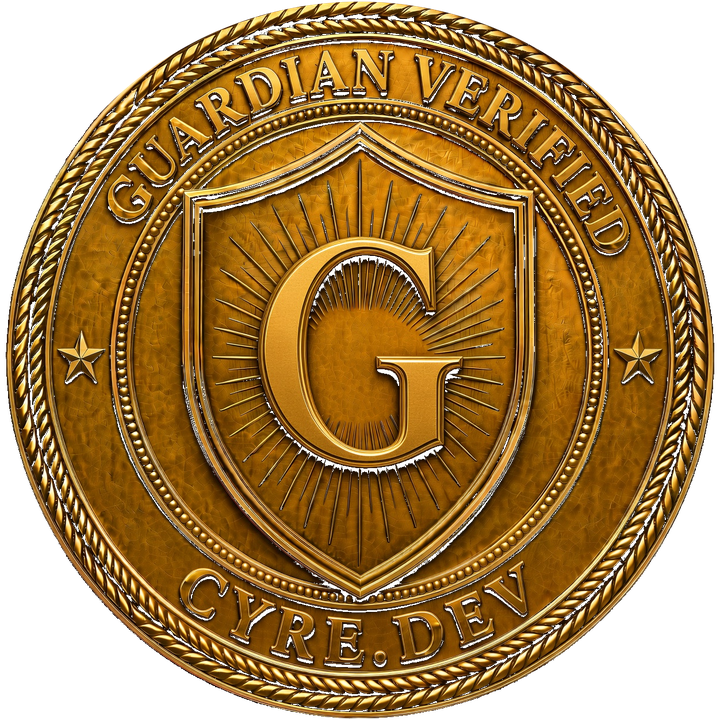
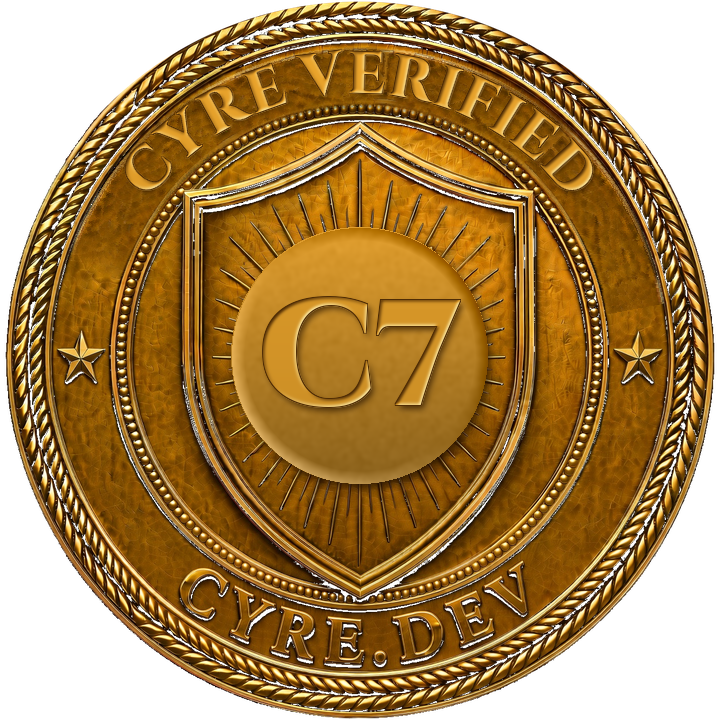
Retire Guardian (part 2): Cyre Verified badges, seals, checkout, chat (#3)
* Retire Guardian (part 2): Cyre Verified CTA/disclaimer + loop copy test

* badge-order: Cyre Verified disclaimer + CTA

* Badge OG cards: CYRE heading + Cyre Verified titles

* Seal check page + order test: Cyre naming

* Badge orders: Cyre Verified wallet label + disclaimer

* Registry test: Cyre Verified titles

* Chat popout: "I'm Cyre" greeting + new C7 icon on the button

* Add files via upload

Changed region(s): [[0.3056, 0.3056, 0.7028, 0.7028], [0.0917, 0.0611, 0.9167, 0.4583]]

diff --git a/api/_badge-order.js b/api/_badge-order.js
@@ -1,4 +1,4 @@
-// api/_badge-order.js — Paid Guardian Verified orders (multi-chain USDC | $C7 Solana Pay).
+// api/_badge-order.js — Paid Cyre Verified orders (multi-chain USDC | $C7 Solana Pay).
 // Comp issuance (badge-register) NEVER creates orders; paid orders NEVER look like comps.
 // Status machine:
 //   AWAITING_PAYMENT → (expire) EXPIRED
@@ -681,7 +681,7 @@ export async function createPaidOrder({ mint, chainId, qualify, siteUrl, usdcCha
         amount: usdcDisplay,
         splToken: usdcMeta.asset,
         reference: usdcReference,
-        label: 'Guardian Verified',
+        label: 'Cyre Verified',
         message: `Order ${id} USDC`
       }),
       explorerName: usdcMeta.explorerName,
@@ -773,7 +773,7 @@ export async function createPaidOrder({ mint, chainId, qualify, siteUrl, usdcCha
               amount: c7.amountDisplay,
               splToken: C7_MINT,
               reference: c7Reference,
-              label: 'Guardian Verified',
+              label: 'Cyre Verified',
               message: `Order ${id}`
             }),
             note: `Send ${c7.amountDisplay} $C7 (locked ≈ $${C7_USD} at order time) to the Solana burn-receive treasury. Include the Solana Pay reference for exact matching. $C7 payments are recorded in the burn ledger and burned weekly.`
@@ -796,7 +796,7 @@ export async function createPaidOrder({ mint, chainId, qualify, siteUrl, usdcCha
     burnLedgerId: null,
     statusUrl: `${SITE}/order/${id}`,
     disclaimer:
-      'Guardian Verified is a measured qualifying-path seal with live re-check — patterns and lock evidence, not investment advice. Digital assets are volatile. Payment does not guarantee issuance; founder brand-safety approval is required. Unpaid orders expire after 30 minutes.'
+      'Cyre Verified is a measured qualifying-path seal with live re-check — patterns and lock evidence, not investment advice. Digital assets are volatile. Payment does not guarantee issuance; founder brand-safety approval is required. Unpaid orders expire after 30 minutes.'
   };
 
   await saveOrder(order);

diff --git a/guardian-popout.js b/guardian-popout.js
@@ -32,7 +32,7 @@
     'box-shadow:0 0 0 2px rgba(143,176,222,.25),0 0 28px rgba(143,176,222,.4),0 0 48px rgba(143,176,222,.22);' +
     'transition:transform .2s,box-shadow .2s}' +
     '#gp-fab:hover,#gp-fab:focus-visible{transform:scale(1.05);box-shadow:0 0 0 2px rgba(143,176,222,.65),0 0 36px rgba(143,176,222,.55),0 0 60px rgba(143,176,222,.3);outline:none}' +
-    '#gp-fab img{width:100%;height:100%;object-fit:contain;border-radius:0;display:block;background:transparent}' +
+    '#gp-fab img{width:100%;height:100%;object-fit:cover;border-radius:50%;display:block;background:transparent}' +
     '#gp-fab .gp-pulse{position:absolute;top:-2px;right:-2px;width:14px;height:14px;border-radius:50%;' +
     'background:#A9C4E8;border:2px solid #0E1622;box-shadow:0 0 10px rgba(143,176,222,.7)}' +
     '#gp-fab .gp-pulse::after{content:"";position:absolute;inset:-4px;border-radius:50%;border:2px solid rgba(143,176,222,.55);' +
@@ -188,7 +188,7 @@
     fab.setAttribute('aria-expanded', 'false');
     fab.setAttribute('aria-controls', 'gp-panel');
     fab.innerHTML =
-      '<img src="/c7-cobra-256-transparent.png?v=c7t1" srcset="/c7-cobra-256-transparent.png?v=c7t1 1x, /c7-cobra-512-transparent.png?v=c7t1 2x" alt="" width="64" height="64">' +
+      '<img src="/c7-token-icon-256.png?v=c7b" srcset="/c7-token-icon-256.png?v=c7b 1x, /c7-token-icon-512.png?v=c7b 2x" alt="" width="64" height="64">' +
       '<span class="gp-pulse" aria-hidden="true"></span>' +
       '<span class="gp-live">LIVE</span>';
     root.appendChild(fab);
@@ -217,7 +217,7 @@
     root.appendChild(panel);
     video = panel.querySelector('video');
     var log = panel.querySelector('.gp-log');
-    addMsg(log, "I'm Guardian. Ask me what I'm watching.", 'bot');
+    addMsg(log, "I'm Cyre. Ask me what I'm watching.", 'bot');
     fab.addEventListener('click', function () {
       if (panel.classList.contains('is-open')) close();
       else open();

diff --git a/api/badge-order.js b/api/badge-order.js
@@ -1,4 +1,4 @@
-// api/badge-order.js — Create / read / watch paid Guardian Verified orders.
+// api/badge-order.js — Create / read / watch paid Cyre Verified orders.
 // POST { mint, usdcChain? } — live-scan qualify; if eligible and unissued → create ORDER (30m lock).
 // usdcChain: ethereum | base | arbitrum | solana (default base). Robinhood Chain excluded.
 // Non-qualifying mints get 422 with no checkout — money cannot buy a non-qualifying badge.
@@ -33,7 +33,7 @@ import { getBadgeByMint, hasRevocationHistory } from './_badge-registry.js';
 import { watchOrders } from './_badge-pay-watch.js';
 
 const DISCLAIMER =
-  'Guardian Verified is a measured qualifying-path seal with live re-check — patterns and lock evidence, not investment advice. Digital assets are volatile. Payment does not guarantee issuance; founder brand-safety approval is required.';
+  'Cyre Verified is a measured qualifying-path seal with live re-check — patterns and lock evidence, not investment advice. Digital assets are volatile. Payment does not guarantee issuance; founder brand-safety approval is required.';
 const SCAN_BASE = process.env.GUARDIAN_SCAN_URL || 'https://scan.cyre.dev';
 const SITE = process.env.GUARDIAN_SITE_URL || 'https://cyre.dev';
 
@@ -277,7 +277,7 @@ export default async function handler(req, res) {
     return res.status(201).json({
       ...publicOrderView(order),
       checkoutUrl: order.statusUrl,
-      cta: `Get Guardian Verified — $${USDC_USD} USDC or $${C7_USD} in $C7.`,
+      cta: `Get Cyre Verified — $${USDC_USD} USDC or $${C7_USD} in $C7.`,
       paths: QUALIFY_PATHS
     });
   } catch (e) {

diff --git a/api/_badge-og-render.js b/api/_badge-og-render.js
@@ -657,7 +657,7 @@ export function renderBadgeOg(input) {
   const revoked = input.status === 'REVOKED';
   const expired = input.status === 'EXPIRED';
 
-  drawText(rgba, 'GUARDIAN', 72, 70, 5, 201, 162, 39);
+  drawText(rgba, 'CYRE', 72, 70, 5, 201, 162, 39);
   drawText(
     rgba,
     input.status === 'VALID' ? 'BADGE VERIFIED' : input.status,
@@ -725,7 +725,7 @@ const VERIFY_SEAL_DISPLAY = 420; // seal-forward verify unfurl
 
 /**
  * Verify-page og:title + OG card headline.
- * Format: Guardian Verified · {name} (${ticker}) · {serial}
+ * Format: Cyre Verified · {name} (${ticker}) · {serial}
  *
  * @param {{ name?: string|null, symbol?: string|null, serial?: string|null }} input
  * @returns {string}
@@ -736,10 +736,10 @@ export function formatVerifiedOgTitle(input = {}) {
   const serial = String(input.serial || '').trim();
   const project =
     name && ticker ? `${name} ($${ticker})` : name || (ticker ? `$${ticker}` : '');
-  if (project && serial) return `Guardian Verified · ${project} · ${serial}`;
-  if (serial) return `Guardian Verified · ${serial}`;
-  if (project) return `Guardian Verified · ${project}`;
-  return 'Guardian Verified';
+  if (project && serial) return `Cyre Verified · ${project} · ${serial}`;
+  if (serial) return `Cyre Verified · ${serial}`;
+  if (project) return `Cyre Verified · ${project}`;
+  return 'Cyre Verified';
 }
 
 /**

diff --git a/api/badge-qualify.js b/api/badge-qualify.js
@@ -9,7 +9,7 @@ import { USDC_USD, C7_USD } from './_badge-order.js';
 const SCAN_BASE = process.env.GUARDIAN_SCAN_URL || 'https://scan.cyre.dev';
 const SITE = process.env.GUARDIAN_SITE_URL || 'https://cyre.dev';
 const DISCLAIMER =
-  'Guardian Verified is a measured qualifying-path seal with live re-check — patterns and lock evidence, not investment advice.';
+  'Cyre Verified is a measured qualifying-path seal with live re-check — patterns and lock evidence, not investment advice.';
 
 async function fetchScan(mint) {
   const url = `${SCAN_BASE}/api/scan?address=${encodeURIComponent(mint)}`;
@@ -68,7 +68,7 @@ export default async function handler(req, res) {
       eligible: true,
       showBuy: true,
       qualify,
-      cta: 'Get Guardian Verified — $25',
+      cta: 'Get Cyre Verified — $25',
       checkoutUrl: `${SITE}/order?mint=${encodeURIComponent(mint)}`,
       paths: QUALIFY_PATHS,
       disclaimer: DISCLAIMER

diff --git a/api/_badge-registry.test.js b/api/_badge-registry.test.js
@@ -34,11 +34,11 @@ assert.equal(
     symbol: GENESIS_BADGE.symbol,
     serial: GENESIS_SERIAL
   }),
-  'Guardian Verified · CYRE ($C7) · GRD-2026-00001'
+  'Cyre Verified · CYRE ($C7) · GRD-2026-00001'
 );
 assert.equal(
   formatVerifiedOgTitle({ serial: GENESIS_SERIAL }),
-  'Guardian Verified · GRD-2026-00001'
+  'Cyre Verified · GRD-2026-00001'
 );
 
 assert.equal(formatSerial(2026, 1), 'GRD-2026-00001');

diff --git a/scripts/c7-loop-forbidden-words.test.js b/scripts/c7-loop-forbidden-words.test.js
@@ -27,9 +27,9 @@ const markup = html.slice(tagOpen, sectionEnd + '</section>'.length);
 
 const required = [
   'THE $C7 LOOP',
-  'Every Guardian Verified badge paid in C7 removes supply forever',
+  'Every Cyre Verified badge paid in C7 removes supply forever',
   'SCAN',
-  'Project runs a Guardian scan',
+  'Project runs a Cyre scan',
   'QUALIFY',
   'LP locked · authorities revoked · grade earned',
   'BADGE',

diff --git a/api/_badge-order.test.js b/api/_badge-order.test.js
@@ -56,7 +56,7 @@ const payUrl = buildSolanaPayUrl({
   amount: c7.amountDisplay,
   splToken: '979sitxCjWFPdAsrF2ybKNENwFcpiHDwaAasC5Xa5qww',
   reference: ref,
-  label: 'Guardian Verified'
+  label: 'Cyre Verified'
 });
 assert.match(payUrl, /^solana:/);
 assert.match(payUrl, /reference=/);

diff --git a/api/seal-check.js b/api/seal-check.js
@@ -83,7 +83,7 @@ a{color:var(--gold)}
 </head>
 <body>
 <div class="wrap">
-  <div class="brand">Cyre Guardian · Seal check</div>
+  <div class="brand">Cyre · Seal check</div>
   <div class="card ${tone}">
     ${
       seal
